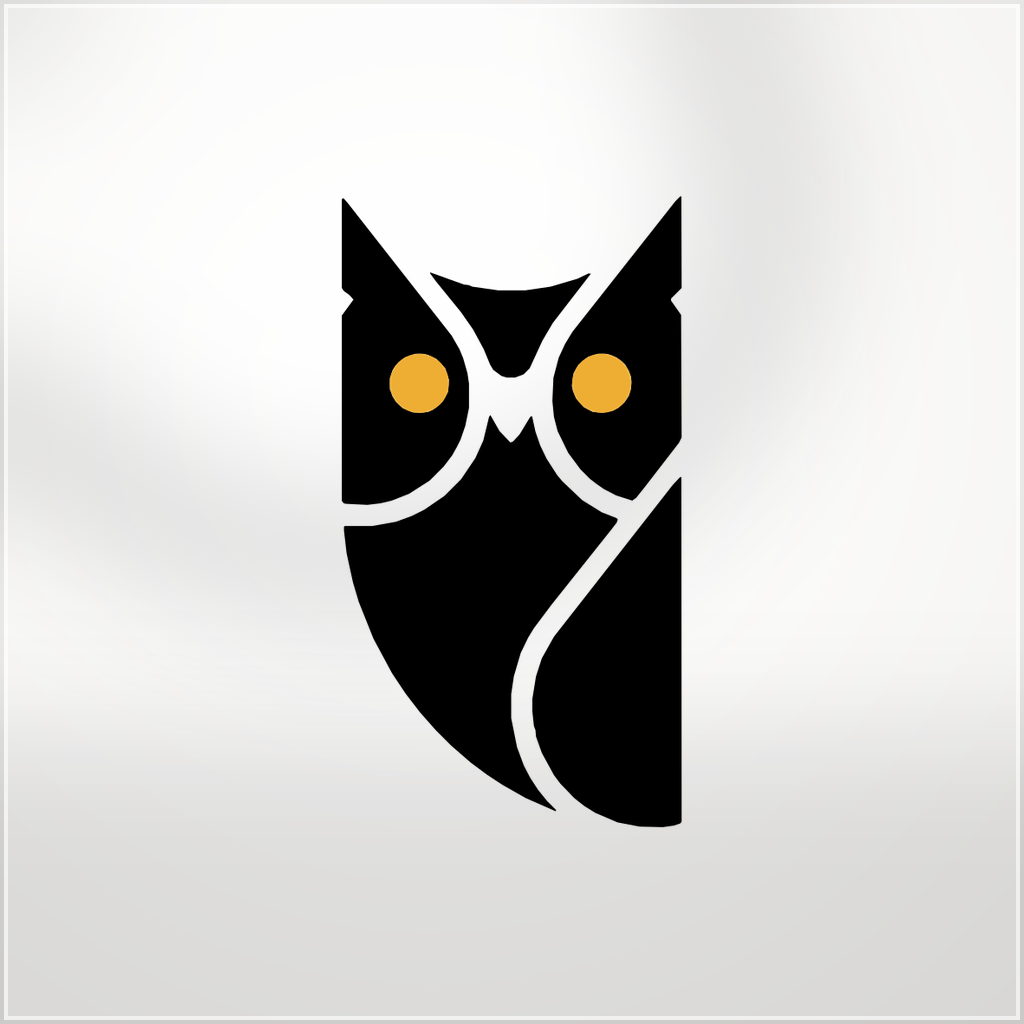
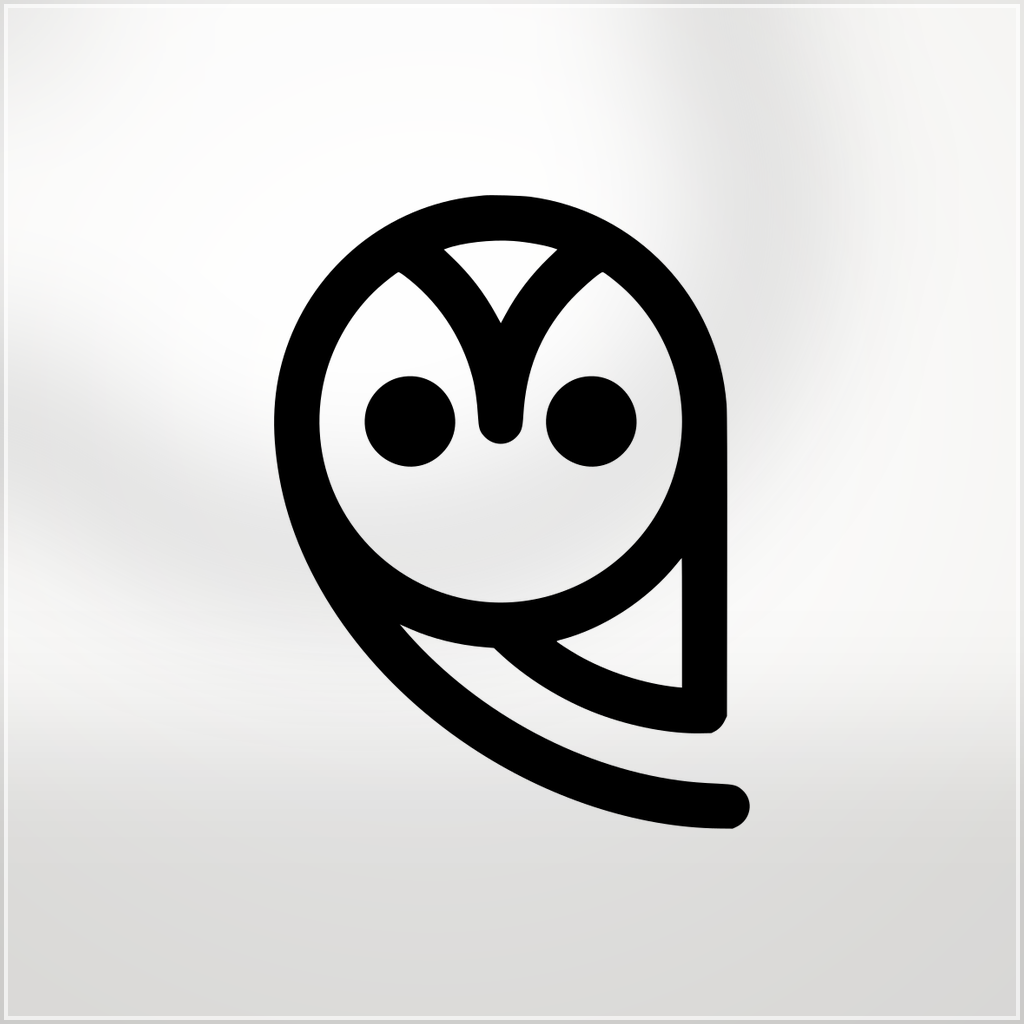
Keep local brand pipeline updates without checking in training photos.
Ignore models/data so large polar-bear zips stay on disk/R2 instead of git.

Changed region(s): [[0.25, 0.1875, 0.75, 0.8125], [0.4062, 0.6875, 0.4375, 0.7188], [0.375, 0.6562, 0.4062, 0.6875]]

diff --git a/apps/mobile/src/components/BrandSplash.tsx b/apps/mobile/src/components/BrandSplash.tsx
@@ -11,8 +11,8 @@ import { Colors } from '../theme/colors';
 /** How much of the screen's height the owl fills. */
 const MARK_HEIGHT = 0.42;
 
-/** The mark is tall and narrow — cropped tight to the ink (652×1200). */
-const MARK_ASPECT = 652 / 1200;
+/** The mark is cropped tight to the ink (672×896). */
+const MARK_ASPECT = 672 / 896;
 
 /** Time the mark holds at full size before handing off to the app. */
 const HOLD_MS = 600;

diff --git a/tools/brand/trace-mark.py b/tools/brand/trace-mark.py
@@ -1,0 +1,201 @@
+#!/usr/bin/env python3
+"""Trace brand/source/owl-mark-source.png into brand/owl-mark.svg (+ mono).
+
+Requires: Pillow, potrace. Produces a tight 672×896 currentColor mark.
+"""
+from __future__ import annotations
+
+import re
+import subprocess
+import tempfile
+from pathlib import Path
+
+from PIL import Image
+
+ROOT = Path(__file__).resolve().parents[2]
+SRC = ROOT / "brand" / "source" / "owl-mark-source.png"
+OUT = ROOT / "brand" / "owl-mark.svg"
+OUT_MONO = ROOT / "brand" / "owl-mark-mono.svg"
+
+TOKEN = re.compile(r"[MmLlHhVvCcSsQqTtAaZz]|[-+]?(?:\d+\.?\d*|\.\d+)(?:[eE][-+]?\d+)?")
+
+
+def to_pbm(png: Path, pbm: Path) -> tuple[int, int]:
+    src = Image.open(png).convert("RGBA")
+    bbox = src.getchannel("A").getbbox()
+    if not bbox:
+        raise SystemExit("source PNG has no opaque pixels")
+    crop = src.crop(bbox)
+    w, h = crop.size
+    mask = Image.new("1", (w, h), 1)
+    px, m = crop.load(), mask.load()
+    for y in range(h):
+        for x in range(w):
+            if px[x, y][3] > 128:
+                m[x, y] = 0
+    mask.save(pbm)
+    return w, h
+
+
+def transform_path(d: str, tx: float, ty: float, sx: float, sy: float) -> str:
+    tokens = TOKEN.findall(re.sub(r"\s+", " ", d).strip())
+    out: list[str] = []
+    i = 0
+    cx = cy = startx = starty = 0.0
+    cmd: str | None = None
+
+    def num() -> float:
+        nonlocal i
+        v = float(tokens[i])
+        i += 1
+        return v
+
+    def emit_pt(x: float, y: float) -> None:
+        X, Y = tx + x * sx, ty + y * sy
+        out.append(f"{X:.2f}")
+        out.append(f"{Y:.2f}")
+
+    while i < len(tokens):
+        tok = tokens[i]
+        if re.match(r"[A-Za-z]", tok):
+            cmd = tok
+            i += 1
+            if cmd in "Zz":
+                out.append("Z")
+                cx, cy = startx, starty
+            continue
+        assert cmd is not None
+        if cmd == "M":
+            x, y = num(), num()
+            out.append("M"); emit_pt(x, y)
+            cx, cy = startx, starty = x, y
+            cmd = "L"
+        elif cmd == "m":
+            x, y = cx + num(), cy + num()
+            out.append("M"); emit_pt(x, y)
+            cx, cy = startx, starty = x, y
+            cmd = "l"
+        elif cmd == "L":
+            x, y = num(), num()
+            out.append("L"); emit_pt(x, y)
+            cx, cy = x, y
+        elif cmd == "l":
+            x, y = cx + num(), cy + num()
+            out.append("L"); emit_pt(x, y)
+            cx, cy = x, y
+        elif cmd == "H":
+            x = num()
+            out.append("L"); emit_pt(x, cy)
+            cx = x
+        elif cmd == "h":
+            x = cx + num()
+            out.append("L"); emit_pt(x, cy)
+            cx = x
+        elif cmd == "V":
+            y = num()
+            out.append("L"); emit_pt(cx, y)
+            cy = y
+        elif cmd == "v":
+            y = cy + num()
+            out.append("L"); emit_pt(cx, y)
+            cy = y
+        elif cmd == "C":
+            pts = [num() for _ in range(6)]
+            out.append("C")
+            for k in range(0, 6, 2):
+                emit_pt(pts[k], pts[k + 1])
+            cx, cy = pts[4], pts[5]
+        elif cmd == "c":
+            dxy = [num() for _ in range(6)]
+            pts = [cx + dxy[0], cy + dxy[1], cx + dxy[2], cy + dxy[3], cx + dxy[4], cy + dxy[5]]
+            out.append("C")
+            for k in range(0, 6, 2):
+                emit_pt(pts[k], pts[k + 1])
+            cx, cy = pts[4], pts[5]
+        elif cmd in ("S", "Q"):
+            n = 4
+            pts = [num() for _ in range(n)]
+            out.append(cmd)
+            for k in range(0, n, 2):
+                emit_pt(pts[k], pts[k + 1])
+            cx, cy = pts[2], pts[3]
+        elif cmd in ("s", "q"):
+            dxy = [num() for _ in range(4)]
+            pts = [cx + dxy[0], cy + dxy[1], cx + dxy[2], cy + dxy[3]]
+            out.append(cmd.upper())
+            for k in range(0, 4, 2):
+                emit_pt(pts[k], pts[k + 1])
+            cx, cy = pts[2], pts[3]
+        else:
+            raise SystemExit(f"Unhandled path command {cmd!r}")
+
+    parts: list[str] = []
+    j = 0
+    while j < len(out):
+        if out[j] in "MLCQSTHVZ":
+            parts.append(out[j])
+            j += 1
+        else:
+            nums: list[str] = []
+            while j < len(out) and out[j] not in "MLCQSTHVZ":
+                nums.append(out[j])
+                j += 1
+            parts.append(" ".join(nums))
+
+    path_d = ""
+    for p in parts:
+        path_d += p
+    path_d = re.sub(r"([MLCQSTHVZ])\s+", r"\1", path_d)
+    path_d = path_d.replace("ZM", "Z M").replace("ZC", "Z C")
+    return path_d
+
+
+def main() -> None:
+    if not SRC.exists():
+        raise SystemExit(f"Missing {SRC}")
+    with tempfile.TemporaryDirectory() as td:
+        td_path = Path(td)
+        pbm = td_path / "mark.pbm"
+        raw_svg = td_path / "raw.svg"
+        w, h = to_pbm(SRC, pbm)
+        subprocess.check_call(
+            [
+                "potrace",
+                str(pbm),
+                "-s",
+                "-o",
+                str(raw_svg),
+                "--flat",
+                "--turdsize",
+                "4",
+                "--alphamax",
+                "0.8",
+                "--opttolerance",
+                "0.4",
+            ]
+        )
+        text = raw_svg.read_text()
+        t = re.search(
+            r'transform="translate\(([^,]+),([^)]+)\) scale\(([^,]+),([^)]+)\)"',
+            text,
+        )
+        if not t:
+            raise SystemExit("potrace SVG missing transform")
+        tx, ty, sx, sy = map(float, t.groups())
+        d_raw = re.search(r'<path d="([^"]+)"', text, re.S)
+        if not d_raw:
+            raise SystemExit("potrace SVG missing path")
+        path_d = transform_path(d_raw.group(1), tx, ty, sx, sy)
+        out = (
+            '<?xml version="1.0" encoding="UTF-8"?>\n'
+            f'<svg xmlns="http://www.w3.org/2000/svg" viewBox="0 0 {w} {h}" fill="none" aria-hidden="true">\n'
+            f'  <path fill="currentColor" fill-rule="evenodd" d="{path_d}"/>\n'
+            "</svg>\n"
+        )
+        OUT.write_text(out)
+        OUT_MONO.write_text(out)
+        print(f"wrote {OUT.relative_to(ROOT)} and {OUT_MONO.name} ({w}x{h}, path {len(path_d)} chars)")
+
+
+if __name__ == "__main__":
+    main()

diff --git a/tools/brand/build-brand.py b/tools/brand/build-brand.py
@@ -31,9 +31,8 @@ WEB_APP = ROOT / "apps" / "web" / "src" / "app"
 WEB_PUBLIC = ROOT / "apps" / "web" / "public"
 FONTS_DIR = Path(__file__).resolve().parent / ".fonts"
 
-AMBER = (0xEE, 0xAE, 0x34, 255)
 SPLASH_BG = (0xFA, 0xFA, 0xF8, 255)
-MARK_ASPECT = 652 / 1200  # 0.5433
+MARK_ASPECT = 672 / 896  # 0.75
 
 
 def which(cmd: str) -> str:
@@ -150,8 +149,8 @@ def splash_icon(size: int = 1024) -> Image.Image:
 
 
 def mark_png() -> Image.Image:
-    """Tight-cropped transparent mark at native 652x1200."""
-    return render_svg(BRAND_SVG, width=652, height=1200, color="#000000")
+    """Tight-cropped transparent mark at native 672x896 (2× for crisp splash)."""
+    return render_svg(BRAND_SVG, width=1344, height=1792, color="#000000")
 
 
 def favicon_png(size: int = 48) -> Image.Image:
@@ -317,13 +316,11 @@ def main() -> None:
     mw = mh * MARK_ASPECT
     tx = (512 - mw) / 2
     ty = (512 - mh) / 2
-    sx = mw / 652
+    sx = mw / 672
     square = f'''<?xml version="1.0" encoding="UTF-8"?>
 <svg xmlns="http://www.w3.org/2000/svg" viewBox="0 0 512 512" fill="none">
   <g transform="translate({tx:.3f} {ty:.3f}) scale({sx:.6f})">
     <path fill="#000000" fill-rule="evenodd" d="{path_d}"/>
-    <circle cx="150.401" cy="356.476" r="56" fill="#EEAE34"/>
-    <circle cx="496.035" cy="356.341" r="56" fill="#EEAE34"/>
   </g>
 </svg>
 '''

diff --git a/tools/brand/README.md b/tools/brand/README.md
@@ -2,8 +2,19 @@
 
 Source of truth for the NaturaLens owl mark:
 
-- [`brand/owl-mark.svg`](../../brand/owl-mark.svg) — body uses `currentColor`, eyes are amber `#EEAE34`
-- [`brand/owl-mark-mono.svg`](../../brand/owl-mark-mono.svg) — monochrome (eyes stay as negative space)
+- [`brand/source/owl-mark-source.png`](../../brand/source/owl-mark-source.png) — raster master (transparent PNG)
+- [`brand/owl-mark.svg`](../../brand/owl-mark.svg) — traced vector; body uses `currentColor`
+- [`brand/owl-mark-mono.svg`](../../brand/owl-mark-mono.svg) — same monochrome mark
+
+## Trace the mark
+
+If the source PNG changes:
+
+```bash
+python3 tools/brand/trace-mark.py
+```
+
+Requires `potrace` and Pillow.
 
 ## Regenerate rasters
 
@@ -11,7 +22,7 @@ Source of truth for the NaturaLens owl mark:
 python3 tools/brand/build-brand.py
 ```
 
-Requires `rsvg-convert` (librsvg) and Pillow. Inter Bold is fetched once into
+Requires `rsvg-convert` (librsvg) and Pillow (+ numpy for the frosted-glass tiles). Inter Bold is fetched once into
 `tools/brand/.fonts/` for the OG image wordmark (gitignored).
 
 Outputs land in `apps/mobile/assets/` and `apps/web/` (favicon, apple icon,
